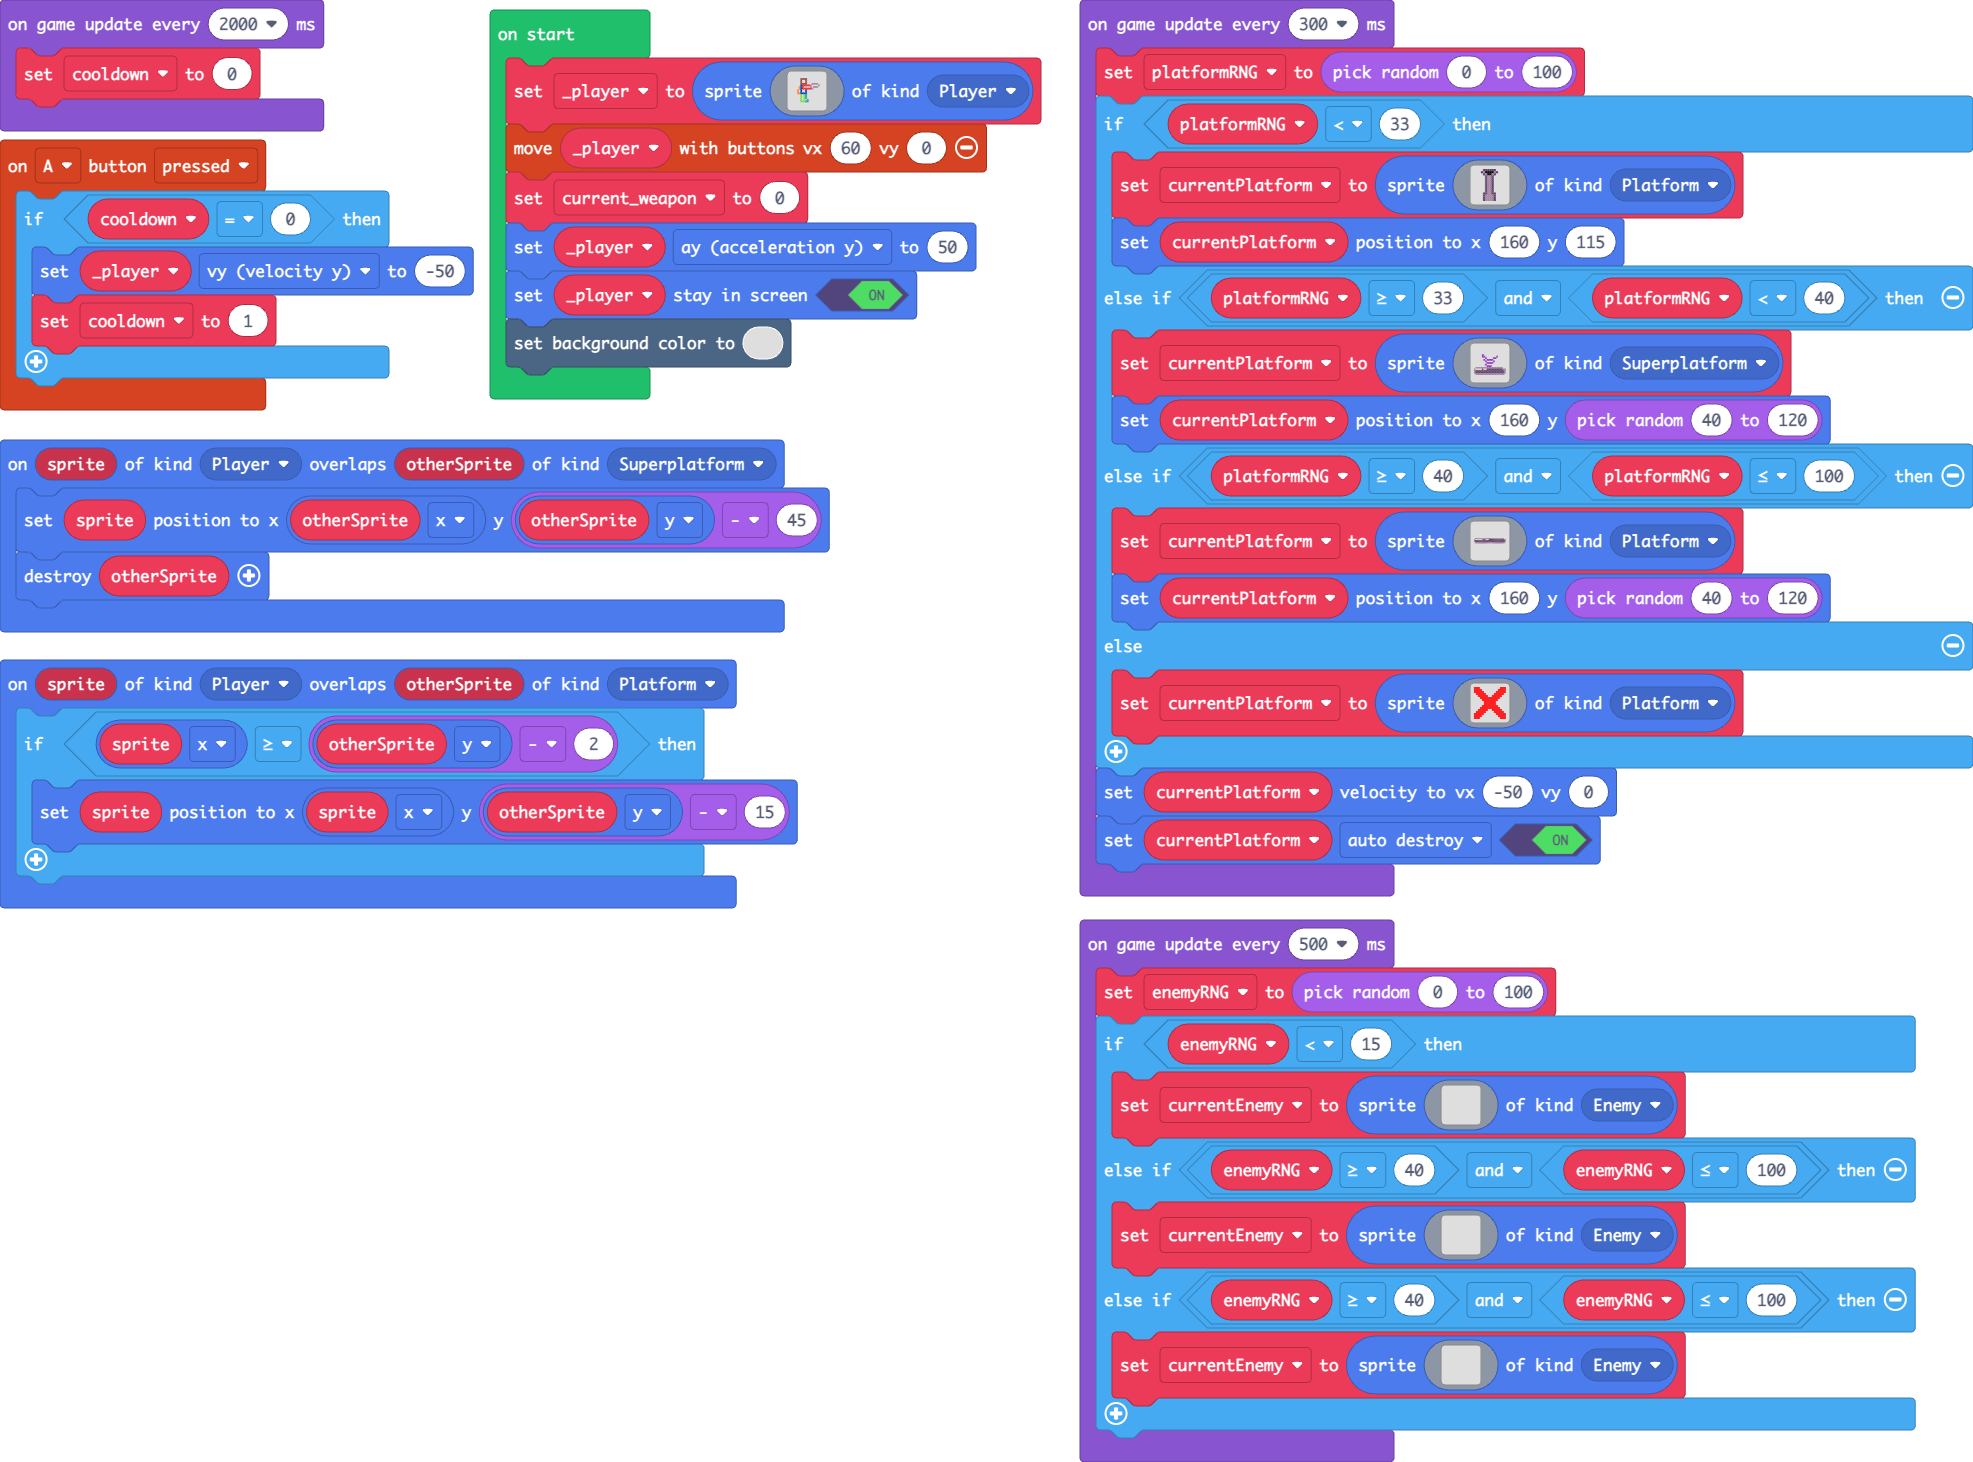
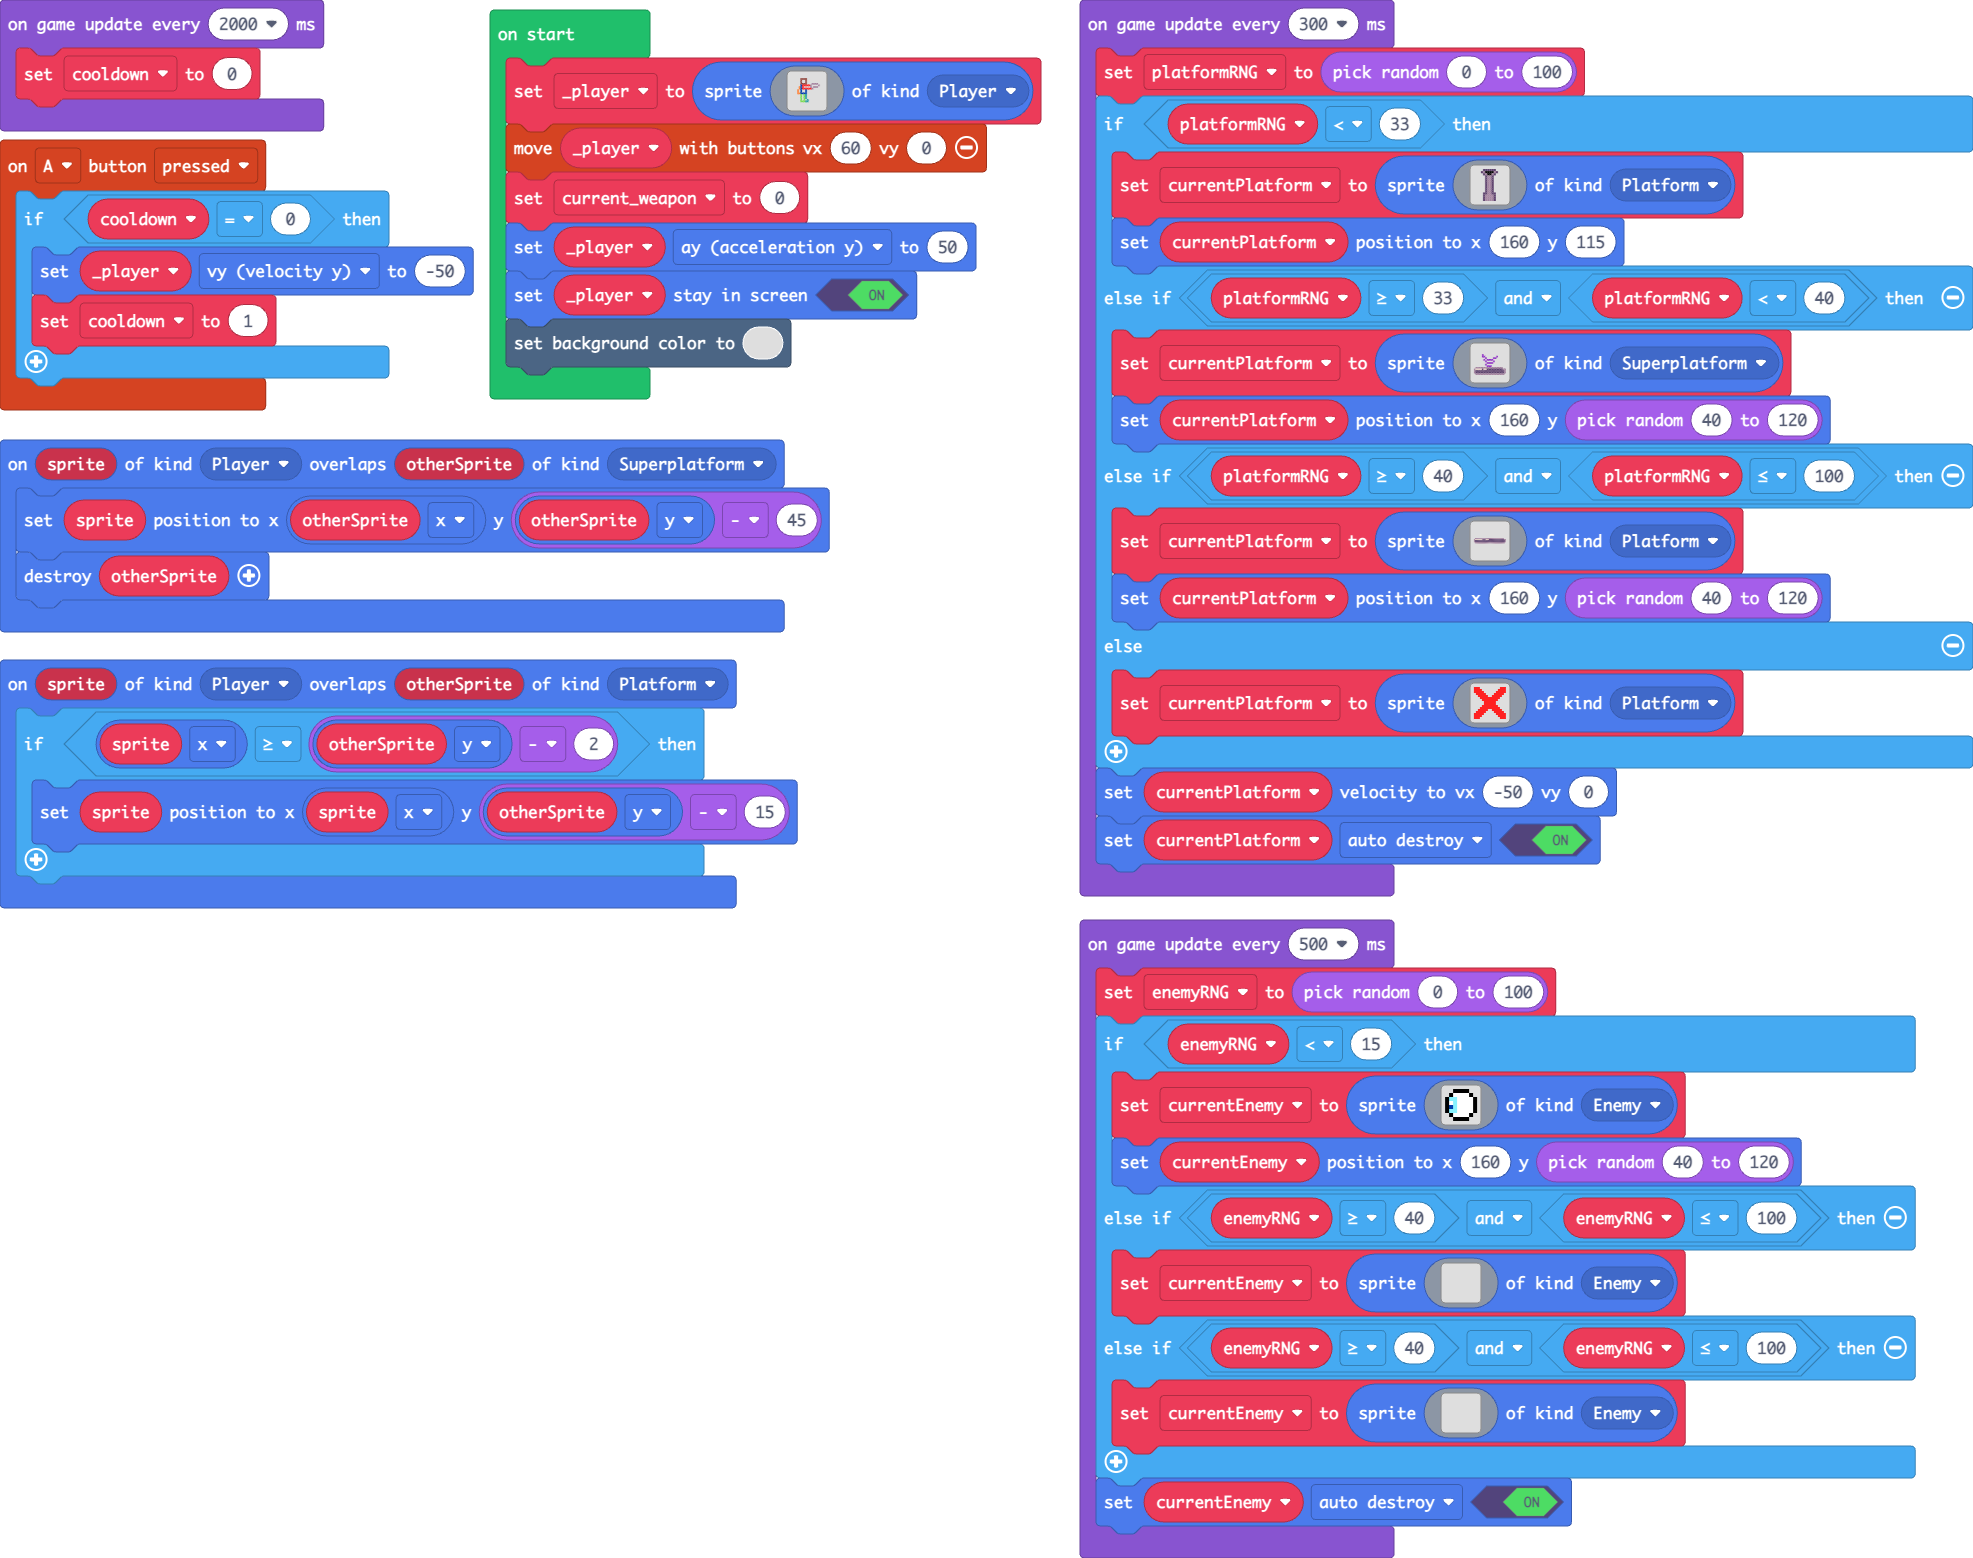
Enemy

diff --git a/main.ts b/main.ts
@@ -36,23 +36,16 @@ game.onUpdateInterval(500, function () {
     enemyRNG = randint(0, 100)
     if (enemyRNG < 15) {
         currentEnemy = sprites.create(img`
-            . . . . . . . . . . . . . . . . 
-            . . . . . . . . . . . . . . . . 
-            . . . . . . . . . . . . . . . . 
-            . . . . . . . . . . . . . . . . 
-            . . . . . . . . . . . . . . . . 
-            . . . . . . . . . . . . . . . . 
-            . . . . . . . . . . . . . . . . 
-            . . . . . . . . . . . . . . . . 
-            . . . . . . . . . . . . . . . . 
-            . . . . . . . . . . . . . . . . 
-            . . . . . . . . . . . . . . . . 
-            . . . . . . . . . . . . . . . . 
-            . . . . . . . . . . . . . . . . 
-            . . . . . . . . . . . . . . . . 
-            . . . . . . . . . . . . . . . . 
-            . . . . . . . . . . . . . . . . 
+            . . f f f f . . 
+            . f 1 1 1 1 f . 
+            f 9 9 1 1 1 1 f 
+            f 1 9 1 1 1 1 f 
+            f 8 9 1 1 1 1 f 
+            f 9 9 1 1 1 1 f 
+            . f 1 1 1 1 f . 
+            . . f f f f . . 
             `, SpriteKind.Enemy)
+        currentEnemy.setPosition(160, randint(40, 120))
     } else if (enemyRNG >= 40 && enemyRNG <= 100) {
         currentEnemy = sprites.create(img`
             . . . . . . . . . . . . . . . . 
@@ -92,6 +85,7 @@ game.onUpdateInterval(500, function () {
             . . . . . . . . . . . . . . . . 
             `, SpriteKind.Enemy)
     }
+    currentEnemy.setFlag(SpriteFlag.AutoDestroy, true)
 })
 game.onUpdateInterval(300, function () {
     platformRNG = randint(0, 100)

diff --git a/images.g.ts b/images.g.ts
@@ -49,6 +49,29 @@ namespace myImages {
 ................
 ................
 `;
+            case "o-X5w{]fF%)X*`[vP{23":
+            case "player_gun1":return img`
+................
+................
+....eeee........
+....e..e........
+....e..e........
+....eeee...bbbb.
+....822222b....b
+...482....b.bbb.
+...48222222b....
+..4.8..8........
+..4.8..8........
+..448888........
+....7.76........
+....7.76........
+....7.76........
+....7.7.6.......
+....77766.......
+................
+................
+................
+`;
             case "image2":
             case "player_sword1":return img`
 ................
@@ -134,29 +157,6 @@ b d d d d d d d c c c d d d c c c c c c c c c c c c c c b b
 b c c c c c c c c c c c c c c c c c c c c c c c c c c c c b 
 b c c c c c c c c c c c c c c c c c c c c c c c c c c c c b 
 . b b b b b b b b b b b b b b b b b b b b b b b b b b b b . 
-`;
-            case "o-X5w{]fF%)X*`[vP{23":
-            case "player_gun1":return img`
-................
-................
-....eeee........
-....e..e........
-...1e..e........
-...1eeee...bbbb.
-...9822222b....b
-...982....b.bbb.
-...98222222b....
-...98..8........
-...98..8........
-...98888........
-...97.76........
-....7.76........
-....7.76........
-....7.7.6.......
-....77766.......
-................
-................
-................
 `;
         }
         return null;
